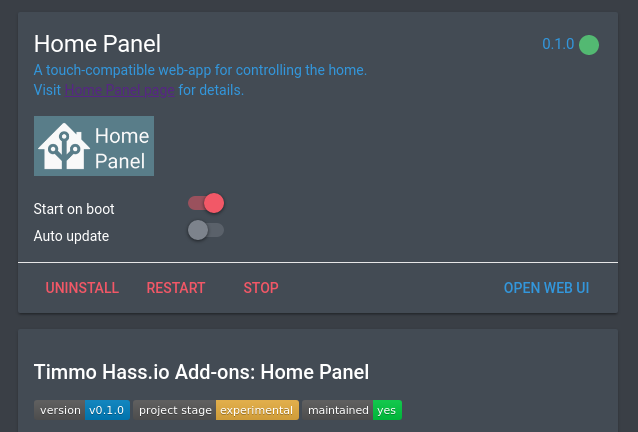
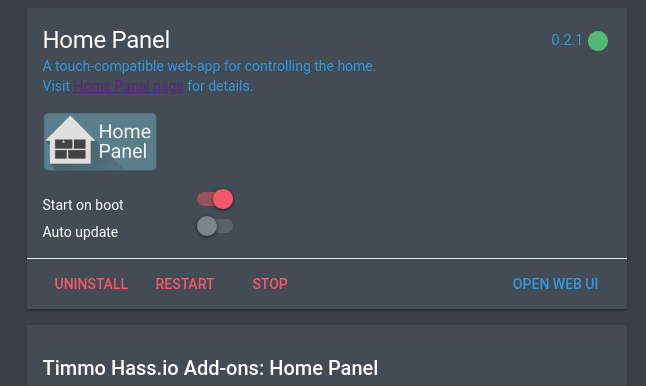
:hammer: move duplicate JSS into common js files (#99)
* :art: update screenshots

* :books: update login docs

* :hammer: moved duplicate JSS into common js files

diff --git a/src/Components/Cards/Hass/Hass.js b/src/Components/Cards/Hass/Hass.js
@@ -10,56 +10,12 @@ import Typography from '@material-ui/core/Typography';
 import { getCardElevation, getSquareCards } from '../../Common/config';
 import AlarmPanel from './Dialogs/AlarmPanel';
 import MoreInfo from './Dialogs/MoreInfo';
+import grid from '../../Common/Style/grid';
+import card from '../../Common/Style/card';
 
 const styles = theme => ({
-  grid: {
-    height: '100%',
-    width: 'fit-content',
-    paddingLeft: theme.spacing.unit * 2,
-    paddingRight: theme.spacing.unit * 2,
-    flexWrap: 'nowrap',
-    overflowY: 'hidden',
-  },
-  cardContainer: {
-    position: 'relative',
-    width: '50%',
-    padding: theme.spacing.unit / 2,
-  },
-  cardOuter: {
-    height: '100%',
-    width: '100%',
-    textAlign: 'start',
-  },
-  card: {
-    width: '100%',
-    background: theme.palette.backgrounds.card.off,
-  },
-  cardOn: {
-    background: theme.palette.backgrounds.card.on,
-  },
-  cardUnavailable: {
-    background: theme.palette.backgrounds.card.disabled,
-  },
-  cardContent: {
-    display: 'flex',
-    flexWrap: 'wrap',
-    minHeight: 98,
-    height: 98,
-    [theme.breakpoints.down('sm')]: {
-      minHeight: 74,
-      height: 74,
-    },
-    padding: `${theme.spacing.unit * 1.5}px !important`,
-  },
-  name: {
-    overflow: 'hidden',
-    textOverflow: 'ellipsis',
-    fontSize: '1.12rem',
-    fontColor: theme.palette.text.main,
-    [theme.breakpoints.down('sm')]: {
-      fontSize: '0.9rem',
-    }
-  },
+  ...grid(theme),
+  ...card(theme),
   state: {
     textOverflow: 'ellipsis',
     margin: '0 auto',
@@ -78,15 +34,7 @@ const styles = theme => ({
   },
   alarmTriggered: {
     background: theme.palette.backgrounds.card.alarm.triggered,
-  },
-  icon: {
-    margin: '0 auto',
-    color: theme.palette.text.icon,
-    fontSize: '2.7rem',
-    [theme.breakpoints.down('sm')]: {
-      fontSize: '1.7rem',
-    }
-  },
+  }
 });
 
 class Hass extends React.Component {

diff --git a/src/Components/Cards/Link/Link.js b/src/Components/Cards/Link/Link.js
@@ -8,58 +8,12 @@ import Card from '@material-ui/core/Card';
 import CardContent from '@material-ui/core/CardContent';
 import Typography from '@material-ui/core/Typography';
 import { getCardElevation, getSquareCards } from '../../Common/config';
+import grid from '../../Common/Style/grid';
+import card from '../../Common/Style/card';
 
 const styles = theme => ({
-  grid: {
-    height: '100%',
-    width: 'fit-content',
-    paddingLeft: theme.spacing.unit * 2,
-    paddingRight: theme.spacing.unit * 2,
-    flexWrap: 'nowrap',
-    overflowY: 'hidden',
-  },
-  cardContainer: {
-    position: 'relative',
-    width: '50%',
-    padding: theme.spacing.unit / 2,
-  },
-  cardOuter: {
-    height: '100%',
-    width: '100%',
-    textAlign: 'start',
-  },
-  card: {
-    width: '100%',
-    background: theme.palette.backgrounds.card.off,
-  },
-  cardContent: {
-    display: 'flex',
-    flexWrap: 'wrap',
-    minHeight: 98,
-    height: 98,
-    [theme.breakpoints.down('sm')]: {
-      minHeight: 74,
-      height: 74,
-    },
-    padding: `${theme.spacing.unit * 1.5}px !important`,
-  },
-  name: {
-    overflow: 'hidden',
-    textOverflow: 'ellipsis',
-    fontSize: '1.12rem',
-    fontColor: theme.palette.text.main,
-    [theme.breakpoints.down('sm')]: {
-      fontSize: '0.9rem',
-    }
-  },
-  icon: {
-    margin: '0 auto',
-    color: theme.palette.text.icon,
-    fontSize: '2.7rem',
-    [theme.breakpoints.down('sm')]: {
-      fontSize: '1.7rem',
-    }
-  },
+  ...grid(theme),
+  ...card(theme),
 });
 
 class Link extends React.Component {

diff --git a/src/Components/Common/Style/card.js b/src/Components/Common/Style/card.js
@@ -1,0 +1,52 @@
+const styles = (theme) => ({
+  cardContainer: {
+    position: 'relative',
+    width: '50%',
+    padding: theme.spacing.unit / 2,
+  },
+  cardOuter: {
+    height: '100%',
+    width: '100%',
+    textAlign: 'start',
+  },
+  card: {
+    width: '100%',
+    background: theme.palette.backgrounds.card.off,
+  },
+  cardOn: {
+    background: theme.palette.backgrounds.card.on,
+  },
+  cardUnavailable: {
+    background: theme.palette.backgrounds.card.disabled,
+  },
+  cardContent: {
+    display: 'flex',
+    flexWrap: 'wrap',
+    minHeight: 98,
+    height: 98,
+    [theme.breakpoints.down('sm')]: {
+      minHeight: 74,
+      height: 74,
+    },
+    padding: `${theme.spacing.unit * 1.5}px !important`,
+  },
+  name: {
+    overflow: 'hidden',
+    textOverflow: 'ellipsis',
+    fontSize: '1.12rem',
+    fontColor: theme.palette.text.main,
+    [theme.breakpoints.down('sm')]: {
+      fontSize: '0.9rem',
+    }
+  },
+  icon: {
+    margin: '0 auto',
+    color: theme.palette.text.icon,
+    fontSize: '2.7rem',
+    [theme.breakpoints.down('sm')]: {
+      fontSize: '1.7rem',
+    }
+  }
+});
+
+export default styles;

diff --git a/src/Components/Root.js b/src/Components/Root.js
@@ -19,9 +19,6 @@ const styles = theme => ({
     maxWidth: '100%',
     background: theme.palette.backgrounds.main,
   },
-  flex: {
-    flex: 1,
-  },
   center: {
     justifyContent: 'center',
     textAlign: 'center',
@@ -211,7 +208,7 @@ class Root extends Component {
                 <Typography variant="subheading">
                   Attempting to connect to HASS...
                 </Typography>
-                }
+              }
             </div>
         }
         <Snackbar

diff --git a/src/Components/Common/Style/grid.js b/src/Components/Common/Style/grid.js
@@ -1,0 +1,12 @@
+const styles = (theme) => ({
+  grid: {
+    height: '100%',
+    width: 'fit-content',
+    paddingLeft: theme.spacing.unit * 2,
+    paddingRight: theme.spacing.unit * 2,
+    flexWrap: 'nowrap',
+    overflowY: 'hidden',
+  }
+});
+
+export default styles;

diff --git a/docs/docs/login.md b/docs/docs/login.md
@@ -5,6 +5,9 @@ This screen communicates with the API to log in the the user and get the
  (If you clear your cookies/cache or recreate the app,
  you will need to login or create a new account again)
 
+You will need to authenticate the app on login to Home Assistant using one of
+ the users you have setup on Home Assistant.
+
 ## Create Account
 
 On your first run of the app, you will be preseted with an account creation screen:
@@ -34,27 +37,16 @@ The URL of the API. You should include the full address. For example:
 - `http://localhost:3234`
 - `https://myserver.local:3234`
 
-### Home Assistant Host
+### Home Assistant URL
 
-Enter your Home Assistant instance's hostname including the port if required.
- (Ports `80` and `443` are not required) You do not need the `https://` or
- `http://` part of the url. This will not work.
+Enter your Home Assistant instance's url including the port if required.
 
-Example hostnames:
+Example URLs:
 
-- `localhost:8123`
-- `my.ddns.address`
-- `192.168.1.100:8123`
-- `mylocalserverhostname.local:8123`
-
-### Home Assistant Password
-
-The password you use to login to Home Assistant.
-
-### Home Assistant SSL
-
-Keep this box checked if your home assistant instance is secured.
- Those using Home Assistant locally will likely need to switch this off.
+- `https://my.ddns.address`
+- `http://localhost:8123`
+- `http://192.168.1.100:8123`
+- `https://mylocalserverhostname.local:8123`
 
 ## Login
 
